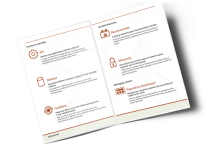
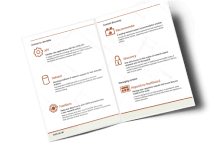
Reduce height in outreach materials component

diff --git a/components/outreach-materials/outreach-materials.scss b/components/outreach-materials/outreach-materials.scss
@@ -9,7 +9,7 @@
   position: relative;
   width: 100%;
   height: 0;
-  padding: 0 0 100%;
+  padding: 0 0 70%;
 
   img {
     position: absolute;
